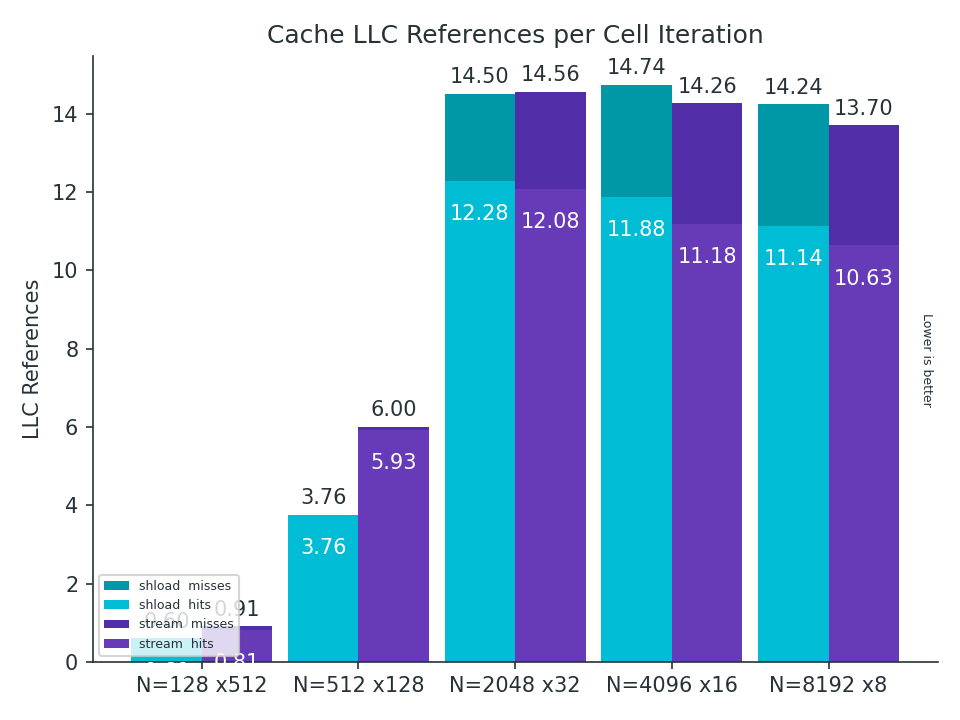
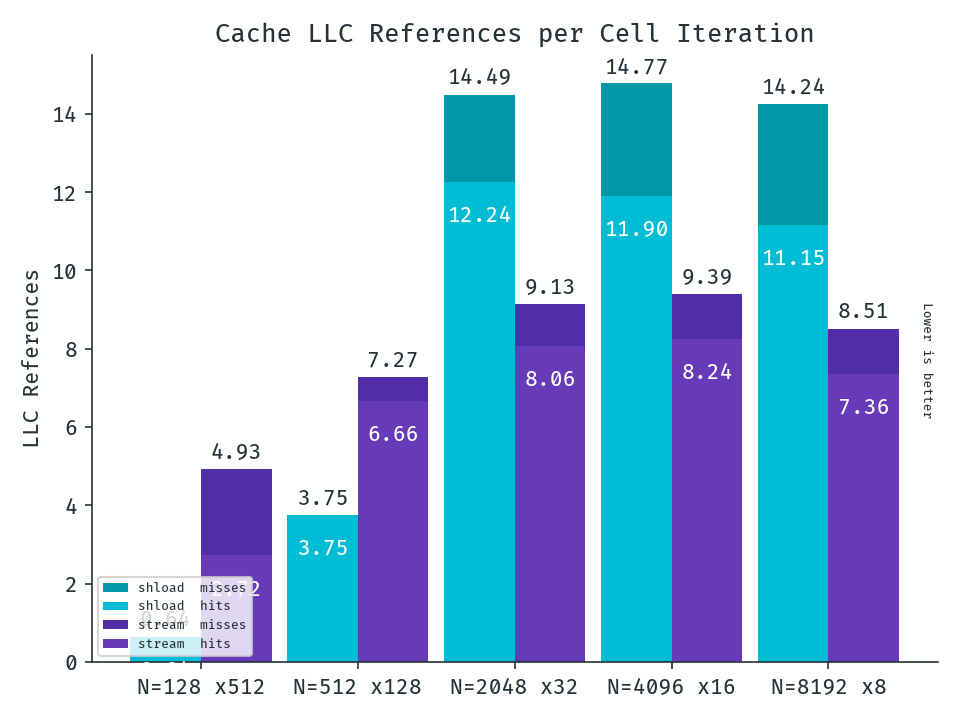
Add stream version to slides

diff --git a/docs/ispc/slides.html b/docs/ispc/slides.html
@@ -840,18 +840,18 @@ for (unsigned int y = 1; y <= n; ++y, start = 1 - start) {
   <img src="intrinsics_graphs/nspcellgraph__project __vs__shload .png" alt="drawing" style="width:550px;"/>
 </div>
 
-*Didn't expect that.*
-
-<!-- TODO: What? I thought it had improved -->
-
 ---
 
+*Note that while cache accesses are less, cache misses remain constant*
+
 <div align="center">
-  <img src="intrinsics_graphs/l1graph__project __vs__shload .png" alt="drawing" style="width:430px;"/>
-
-  <img src="intrinsics_graphs/llcgraph__project __vs__shload .png" alt="drawing" style="width:430px;"/>
+  <img src="intrinsics_graphs/l1graph__project __vs__shload .png" alt="drawing" style="width:600px;"/>
 </div>
-
+---
+.
+<div align="center">
+  <img src="intrinsics_graphs/llcgraph__project __vs__shload .png" alt="drawing" style="width:600px;"/>
+</div>
 ---
 
 # Conclusions
@@ -872,19 +872,15 @@ class: center, middle
 # icc - Intrinsics results
 
 <div align="center">
-  <img src="intrinsics_graphs/nspcellgraph__project __vs__icc .png" alt="drawing" style="width:550px;"/>
+  <img src="intrinsics_graphs/nspcellgraph__shload __vs__icc .png" alt="drawing" style="width:550px;"/>
 </div>
-
-*Again, didn't expect that.*
-
-<!-- TODO: What? again -->
 
 ---
 
 <div align="center">
-  <img src="intrinsics_graphs/l1graph__project __vs__icc .png" alt="drawing" style="width:430px;"/>
+  <img src="intrinsics_graphs/l1graph__shload __vs__icc .png" alt="drawing" style="width:430px;"/>
 
-  <img src="intrinsics_graphs/llcgraph__project __vs__icc .png" alt="drawing" style="width:430px;"/>
+  <img src="intrinsics_graphs/llcgraph__shload __vs__icc .png" alt="drawing" style="width:430px;"/>
 </div>
 
 ---
@@ -892,7 +888,7 @@ class: center, middle
 # stream
 
 ---
-# stream - intrinsics
+# stream - analysis
 
 ```c
 static void lin_solve_rb_step(...) {
@@ -913,17 +909,77 @@ static void lin_solve_rb_step(...) {
 ```
 
 - writes fills cache
-- non temporals `movnt`, `stream`
+- non temporals `movnt` intstructions, `stream` intrinsic
 - lots of non temporal opportunities and aligned stores in code
 - memory alignment with short time
-- results. again. underwhelming.
-- don't base your hopes on isolated experiments.
+
+---
+# stream - non temporal writes
+
+```c
+static void lin_solve_rb_step(...) {
+  const __m256 pinvc = fset1(invc);
+  const __m256 pa = fset1(a);
+  for (unsigned int y = 1; y <= n; ++y, start = 1 - start)
+    for (unsigned int x = 0; x < width; x += 8) {
+      int index = idx(x, y, width);
+      __m256 f = fload2x4(&same0[index]);
+      __m256 u = fload2x4(&neigh[up]);
+      __m256 r = fload2x4(&neigh[right]);
+      __m256 d = fload2x4(&neigh[down]);
+      __m256 l = fload2x4(&neigh[left]);
+      __m256 t = fmul(ffmadd(pa, fadd(u, fadd(r, fadd(d, l))), f), pinvc);
+      fstream(&same[index], t);
+    }
+}
+```
+
+- Main improvement, but advect and project writes were benefited as well
+- It needed a new memory layout, it wasn't as simple as it appears.
+
+---
+# stream - old mem alignment
+<div align="center">
+  <img src="other_imgs/regular_mem.png" alt="drawing" style="width:400px;"/>
+</div>
+
+---
+# stream - redblack alignment
+We need to align the color grids so our writes can be aligned as well.
+<div align="center">
+  <img src="other_imgs/redblack_mem.png" alt="drawing" style="width:400px;"/>
+</div>
+
+---
+# stream - padding
+Not feasible due to development time constraints.
+<div align="center">
+  <img src="other_imgs/padding_mem.png" alt="drawing" style="width:400px;"/>
+</div>
+
+---
+# stream - merge borders
+Not as conservative, but good enough results.
+
+<div align="center">
+  <img src="other_imgs/stream_mem.png" alt="drawing" style="width:400px;"/>
+</div>
 
 ---
 
 # stream - intrinsics results
 
-<!-- TODO: graphs -->
+<div align="center">
+  <img src="intrinsics_graphs/nspcellgraph__shload __vs__stream .png" alt="drawing" style="width:550px;"/>
+</div>
+
+---
+
+<div align="center">
+  <img src="intrinsics_graphs/l1graph__shload __vs__stream .png" alt="drawing" style="width:430px;"/>
+
+  <img src="intrinsics_graphs/llcgraph__shload __vs__stream .png" alt="drawing" style="width:430px;"/>
+</div>
 
 ---
 
